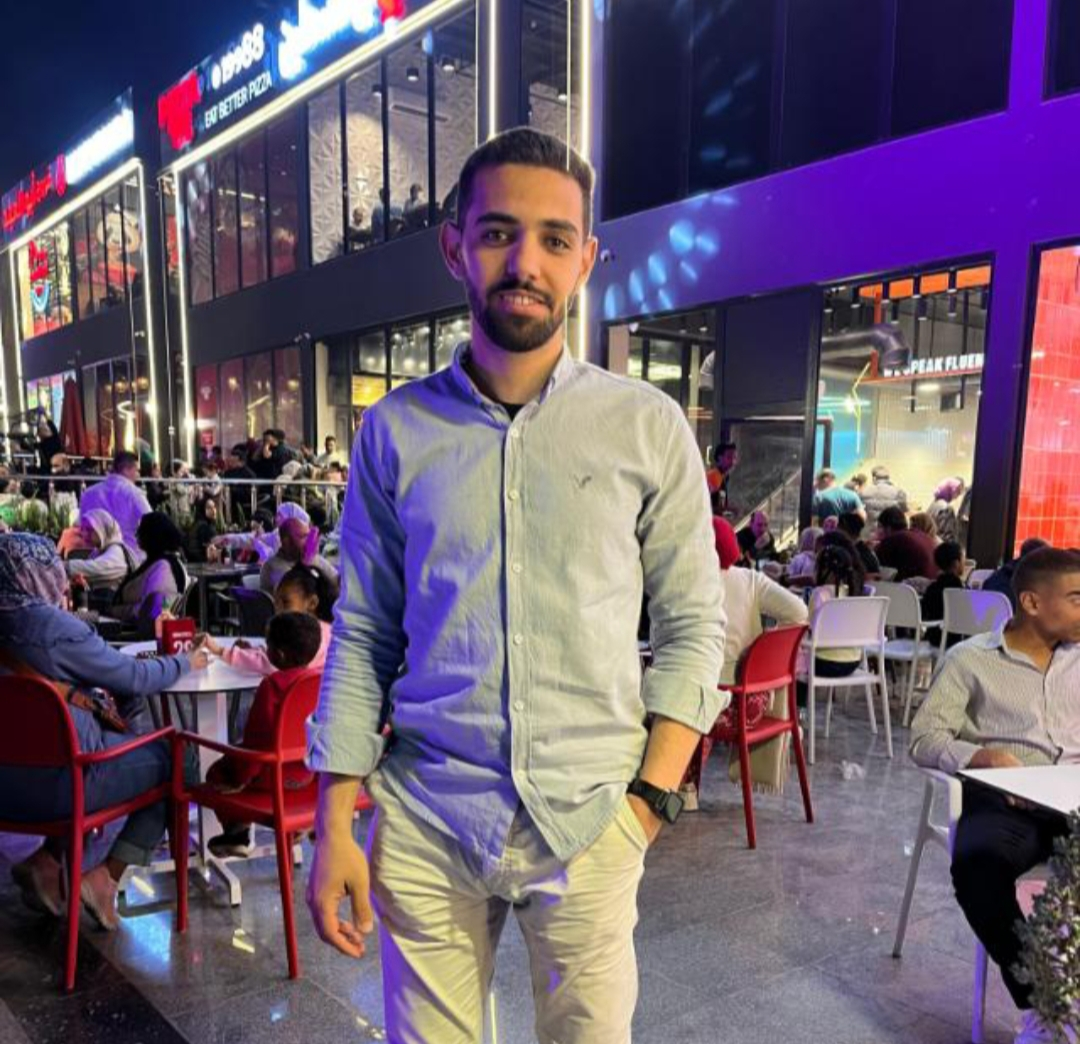
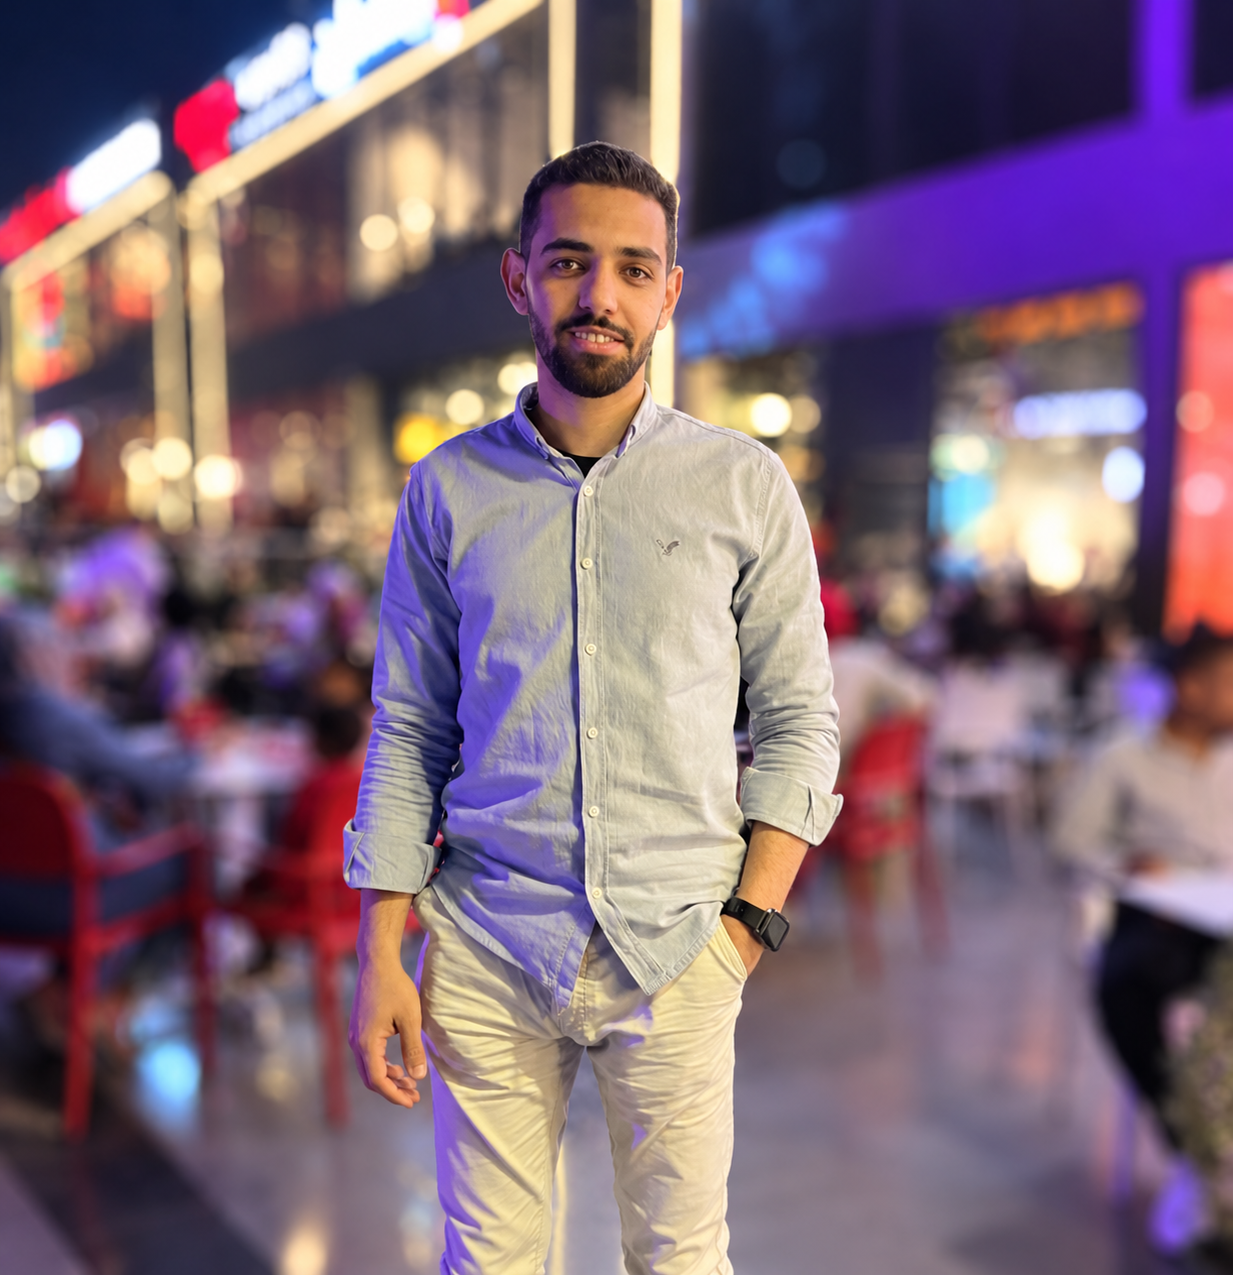
save

diff --git a/index.html b/index.html
@@ -205,12 +205,17 @@
                     <div class="timeline-date">Sep 2024 — Jun 2025</div>
                     <div class="timeline-content">
                         <h3>Next & Associates</h3>
-                        <p class="timeline-role"><em>Software Engineer</em> · FilmSA</p>
+                        <p class="timeline-role"><em>Software Engineer</em></p>
                         <ul class="timeline-list">
-                            <li>Primarily responsible for CMS development — contributed 60%+ of the CMS implementation.</li>
+                            <li><strong>FilmSA</strong> — Primarily responsible for CMS development and contributed significantly to the CMS implementation.</li>
                             <li>Recommended and used Filament for CRUD-oriented CMS functionality.</li>
                             <li>Contributed to the main dashboard development.</li>
                             <li>Worked with Laravel, Service Pattern, and authentication systems.</li>
+                            <li><strong>DAEM</strong> — Backend development for the Saudi stock-market platform, including integrations and platform support.</li>
+                            <li>Laravel backend development for Saudi stock-market platform.</li>
+                            <li>Built Python/Flask services for scraping and data integration.</li>
+                            <li>Integrated yfinance for market data retrieval.</li>
+                            <li>PostgreSQL data modeling and financial data processing.</li>
                         </ul>
                         <div class="tech-stack">
                             <span class="tech-badge tech-badge-core">PHP</span>
@@ -218,6 +223,10 @@
                             <span class="tech-badge">Filament</span>
                             <span class="tech-badge">MySQL</span>
                             <span class="tech-badge">Service Pattern</span>
+                            <span class="tech-badge">Python</span>
+                            <span class="tech-badge">Flask</span>
+                            <span class="tech-badge">PostgreSQL</span>
+                            <span class="tech-badge">yfinance</span>
                         </div>
                     </div>
                 </div>
@@ -248,36 +257,18 @@
                         </div>
                     </div>
                 </div>
-                <!-- DAEM -->
+                <!-- ClAVIS BS -->
                 <div class="timeline-item" role="listitem">
-                    <div class="timeline-date">—</div>
-                    <div class="timeline-content">
-                        <h3>DAEM</h3>
-                        <p class="timeline-role"><em>Backend Development</em> · Saudi Stock-Market Platform</p>
-                        <ul class="timeline-list">
-                            <li>Laravel backend development for Saudi stock-market platform.</li>
-                            <li>Built Python/Flask services for scraping and data integration.</li>
-                            <li>Integrated yfinance for market data retrieval.</li>
-                            <li>PostgreSQL data modeling and financial data processing.</li>
-                        </ul>
-                        <div class="tech-stack">
-                            <span class="tech-badge tech-badge-core">PHP</span>
-                            <span class="tech-badge tech-badge-core">Laravel</span>
-                            <span class="tech-badge">Python</span>
-                            <span class="tech-badge">Flask</span>
-                            <span class="tech-badge">PostgreSQL</span>
-                            <span class="tech-badge">yfinance</span>
-                        </div>
-                    </div>
-                </div>
-
-                <!-- ClAVIS BS - PHP Developer -->
-                <div class="timeline-item" role="listitem">
-                    <div class="timeline-date">Mar 2021 — Nov 2021</div>
+                    <div class="timeline-date">Jan 2021 — Nov 2021</div>
                     <div class="timeline-content">
                         <h3>ClAVIS BS</h3>
-                        <p class="timeline-role"><em>PHP Developer</em></p>
+                        <p class="timeline-role"><em>PHP Developer (promoted from Laravel Intern).</em></p>
                         <ul class="timeline-list">
+                            <h3>Laravel Intern: Jan 2021 — Mar 2021.</h3>
+                            <li>Laravel development internship.</li>
+                            <li>PHP/Laravel fundamentals and CRM exposure.</li>
+                            <li>Progressed to PHP Developer role after 3 months.</li>
+                            <h3>PHP Developer: Mar 2021 — Nov 2021.</h3>
                             <li>PHP/Laravel development.</li>
                             <li>Vtiger CRM customization for a large social/sports club.</li>
                             <li>Built CRM workflows and solutions.</li>
@@ -288,24 +279,6 @@
                             <span class="tech-badge tech-badge-core">Laravel</span>
                             <span class="tech-badge">Vtiger CRM</span>
                             <span class="tech-badge">WordPress</span>
-                        </div>
-                    </div>
-                </div>
-
-                <!-- ClAVIS BS - Laravel Intern -->
-                <div class="timeline-item" role="listitem">
-                    <div class="timeline-date">Jan 2021 — Mar 2021</div>
-                    <div class="timeline-content">
-                        <h3>ClAVIS BS</h3>
-                        <p class="timeline-role"><em>Laravel Intern</em></p>
-                        <ul class="timeline-list">
-                            <li>Laravel development internship.</li>
-                            <li>PHP/Laravel fundamentals and CRM exposure.</li>
-                            <li>Progressed to PHP Developer role after 3 months.</li>
-                        </ul>
-                        <div class="tech-stack">
-                            <span class="tech-badge tech-badge-core">PHP</span>
-                            <span class="tech-badge tech-badge-core">Laravel</span>
                         </div>
                     </div>
                 </div>
@@ -333,7 +306,6 @@
                     <span class="tech-badge tech-badge-lg tech-badge-core">MySQL</span>
                     <span class="tech-badge">Backend Architecture</span>
                     <span class="tech-badge">Service Layer</span>
-                    <span class="tech-badge">Modular Architecture</span>
                 </div>
             </div>
 
@@ -519,7 +491,8 @@
                 </div>
                 <p class="project-desc">Saudi entertainment and content-sector platform for industry professionals.</p>
                 <ul class="project-contributions">
-                    <li>Primary CMS contributor — 60%+ of CMS implementation.</li>
+                    <li>Primarily responsible for CMS development.</li>
+                    <li>Contributed significantly to the CMS implementation.</li>
                     <li>Recommended and built Filament-based CMS.</li>
                     <li>Dashboard development + authentication.</li>
                     <li>Service Pattern architecture.</li>
@@ -588,7 +561,7 @@
             <article class="project-card">
                 <div class="project-card-header">
                     <h3>ClAVIS BS — CRM Solutions</h3>
-                    <p class="project-role">Role: PHP Developer / Laravel Intern</p>
+                    <p class="project-role">Role: PHP Developer (promoted from Laravel Intern).</p>
                 </div>
                 <p class="project-desc">CRM customization and development for social and sports club management.</p>
                 <ul class="project-contributions">

diff --git a/Js/main.js b/Js/main.js
@@ -152,7 +152,8 @@
             overview:
                 'Saudi entertainment and content-sector platform for industry professionals.',
             highlights: [
-                'Primary CMS contributor — 60%+ of CMS implementation.',
+                'Primarily responsible for CMS development.',
+                'Contributed significantly to the CMS implementation.',
                 'Recommended and used Filament for CRUD-oriented CMS functionality.',
                 'Contributed to the main dashboard.',
                 'Worked with Laravel, Service Pattern and authentication.'
@@ -238,10 +239,12 @@
         },
         clavis: {
             title: 'ClAVIS BS — CRM Solutions',
-            role: 'PHP Developer / Laravel Intern',
+            role: 'PHP Developer (promoted from Laravel Intern).',
             overview:
                 'CRM customization and development for social and sports club management.',
             highlights: [
+                'Laravel Intern: Jan 2021 — Mar 2021.',
+                'PHP Developer: Mar 2021 — Nov 2021.',
                 'PHP/Laravel development.',
                 'Vtiger CRM customization.',
                 'CRM workflows for a large social/sports club.',
@@ -259,7 +262,7 @@
                 'Developed Laravel modules and custom backend features.',
                 'Configured CRM workflows and data structures.',
                 'Handled WordPress tasks when required on adjacent projects.',
-                'Progressed from Laravel Intern to PHP Developer within 3 months.'
+                'Promoted from Laravel Intern to PHP Developer after the internship period.'
             ]
         }
     };
